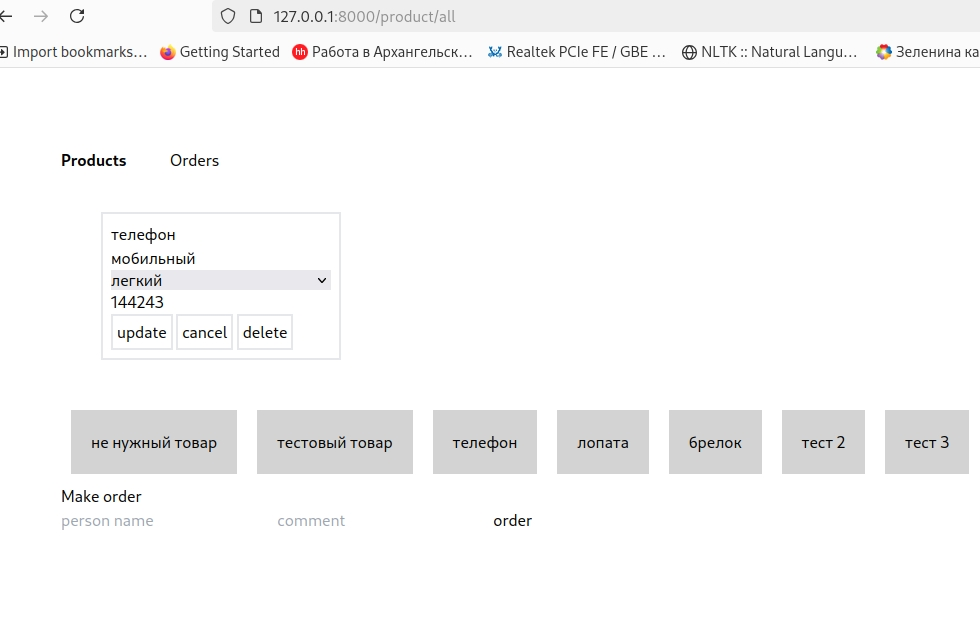
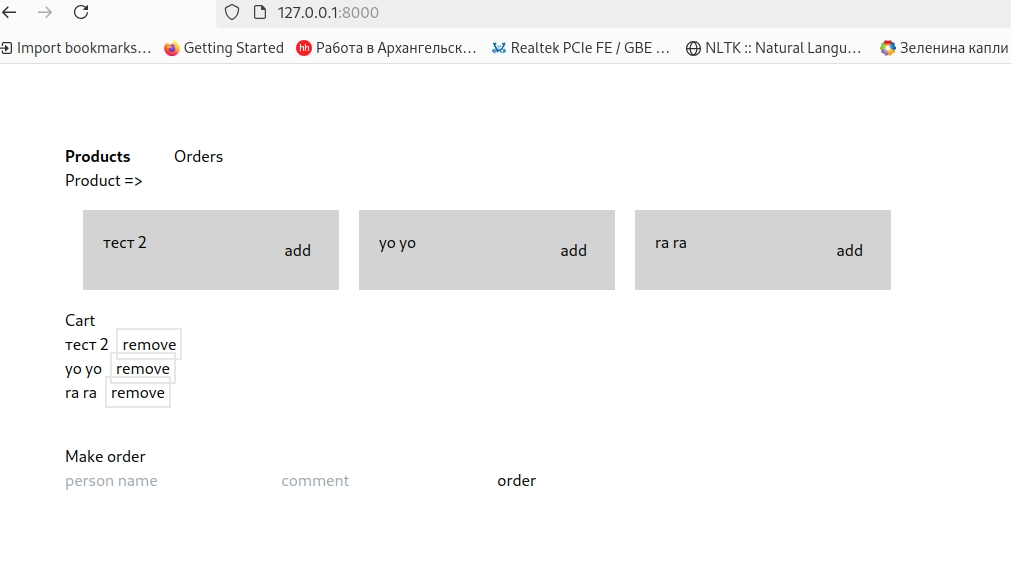
image and selected product fixes

diff --git a/resources/js/products/index.js b/resources/js/products/index.js
@@ -24,6 +24,9 @@ document.addEventListener("DOMContentLoaded", function(){
     let cartEl = document.querySelector(".cart-view");
     let cartLabelEl = document.querySelector(".label-cart");
 
+    let lblProduct  = document.querySelector(".label-product");
+    let selectedProduct  = document.querySelector(".product-selected");
+
     let doAjaxPost = function(url, data, cb){
         var xhttp = new XMLHttpRequest();
         xhttp.onreadystatechange = function() {
@@ -41,7 +44,7 @@ document.addEventListener("DOMContentLoaded", function(){
     }
 
     let makeProduct = function(obj){
-        return "<div id='p" + obj.id + "' class='product new' data-src='" + escape(JSON.stringify(obj)) + "'>" + obj["name"] + "<span class='add m-2'>add</span></div>";
+        return "<div id='p" + obj.id + "' class='product new min-w-64' data-src='" + escape(JSON.stringify(obj)) + "'>" + obj["name"] + "<span class='add m-2 float-right'>add</span></div>";
     }
 
     let makeProductCart = function(obj){
@@ -104,6 +107,7 @@ document.addEventListener("DOMContentLoaded", function(){
                 updateEl.classList.remove("hide");
                 cancelEl.classList.remove("hide");
                 deleteEl.classList.remove("hide");
+                selectedProduct.classList.remove("hide");
 
                 createEl.classList.add("hide");
             });
@@ -177,6 +181,10 @@ document.addEventListener("DOMContentLoaded", function(){
         })   
     }
 
+    lblProduct.addEventListener("click", function(e){  
+        selectedProduct.classList.toggle("hide");
+    })
+
     cancelEl.addEventListener("click", function(e){ 
         updateEl.classList.add("hide");
         cancelEl.classList.add("hide");
@@ -186,6 +194,7 @@ document.addEventListener("DOMContentLoaded", function(){
         orderNameEl.classList.add("hide");
         makeOrderTitleEl.classList.add("hide");
         createEl.classList.remove("hide");
+        selectedProduct.classList.add("hide");
 
         priceEl.value = "";
         nameEl.value = "";

diff --git a/resources/views/products.blade.php b/resources/views/products.blade.php
@@ -11,7 +11,8 @@
     <body class="products m-20">
         <h1><span class="font-semibold">Products</span>&nbsp<a class="m-10" href="/order/all">Orders</a></h1>
 
-        <div class="product-selected grid w-60 m-10 border-2 border-solid p-2">
+        <label for="product-view" class="label-product">Product =></label>
+        <div id="product-view" class="hide product-selected grid w-60 m-10 border-2 border-solid p-2">
             <input type="text" placeHolder="name" class="name-text"></input>
             <input type="hidden"  class="id"></input>
             <input type="text" placeHolder="description"  class="description-text"></input>
